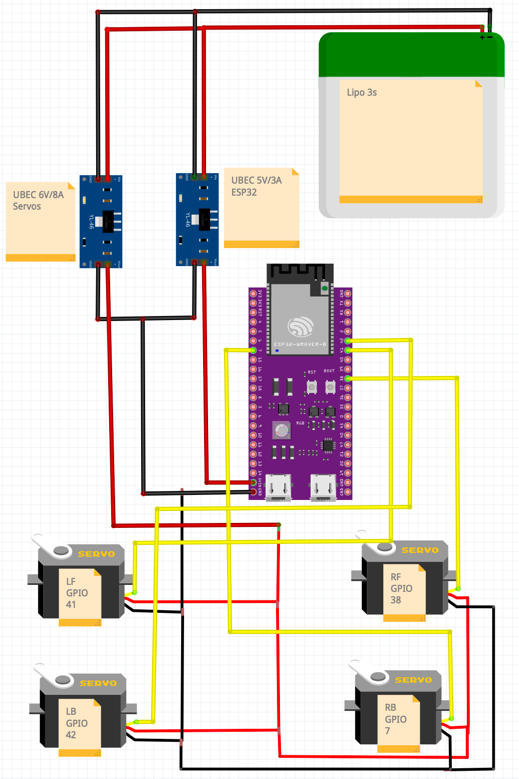
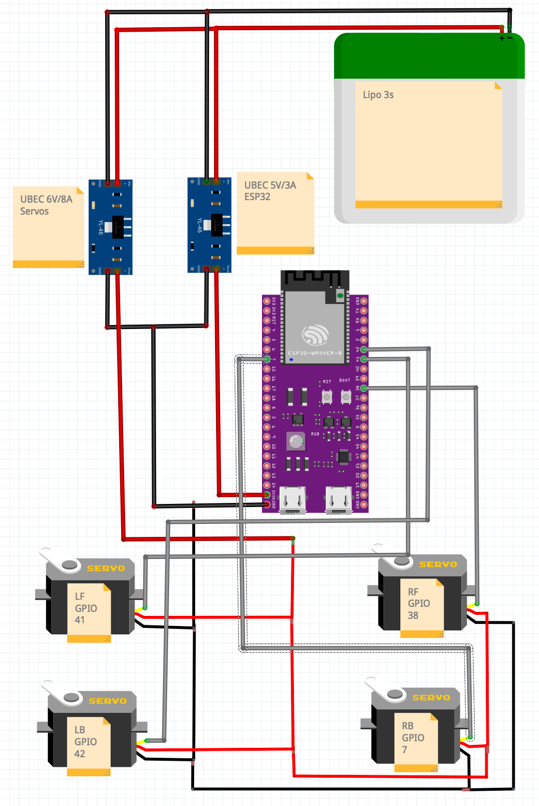
add schematics

Changed region(s): [[0.0, 0.0, 0.9865, 1.0], [0.894, 0.0924, 0.9557, 0.1232]]

diff --git a/README.md b/README.md
@@ -67,19 +67,27 @@ Use **PETG or PLA** for the structural parts, and **TPU** for the tires. All par
 | `tire.stl`   | 6 | TPU | Tires                                                  |
 
 ### Wiring Diagram
-- Power Distribution
+- Power Distribution: Shows the rover power distribution, including the LiPo 3S battery,
+  separate UBECs for logic (5V) and servos (6V), and the motor power rails.
 <div style="text-align: center;">
   <img src="pathfinder/schematics/power_distribution.png" alt="Papaya Pathfinder power distribution"/>
 </div>
 
-- Motors
-- Servos
+- Motors: Motor wiring using two BTS7960 drivers, each controlling one side of the rover.
+  The ESP32 provides PWM control signals to each driver.
+<div style="text-align: center;">
+  <img src="pathfinder/schematics/motors.png" alt="Papaya Pathfinder motors"/>
+</div>
+
+- Servos: Servo wiring powered by a dedicated 6V UBEC. PWM control signals are provided by the ESP32.
 <div style="text-align: center;">
   <img src="pathfinder/schematics/servos.png" alt="Papaya Pathfinder servos"/>
 </div>
-- System Overview
+
+- System Overview: High-level overview of the complete rover wiring, combining power,
+  motor drivers, servos and control logic.
 <div style="text-align: center;">
-  <img src="pathfinder/schematics/schematics.png" alt="Papaya Pathfinder schematics"/>
+  <img src="pathfinder/schematics/overview.png" alt="Papaya Pathfinder overview"/>
 </div>
 
 ---
